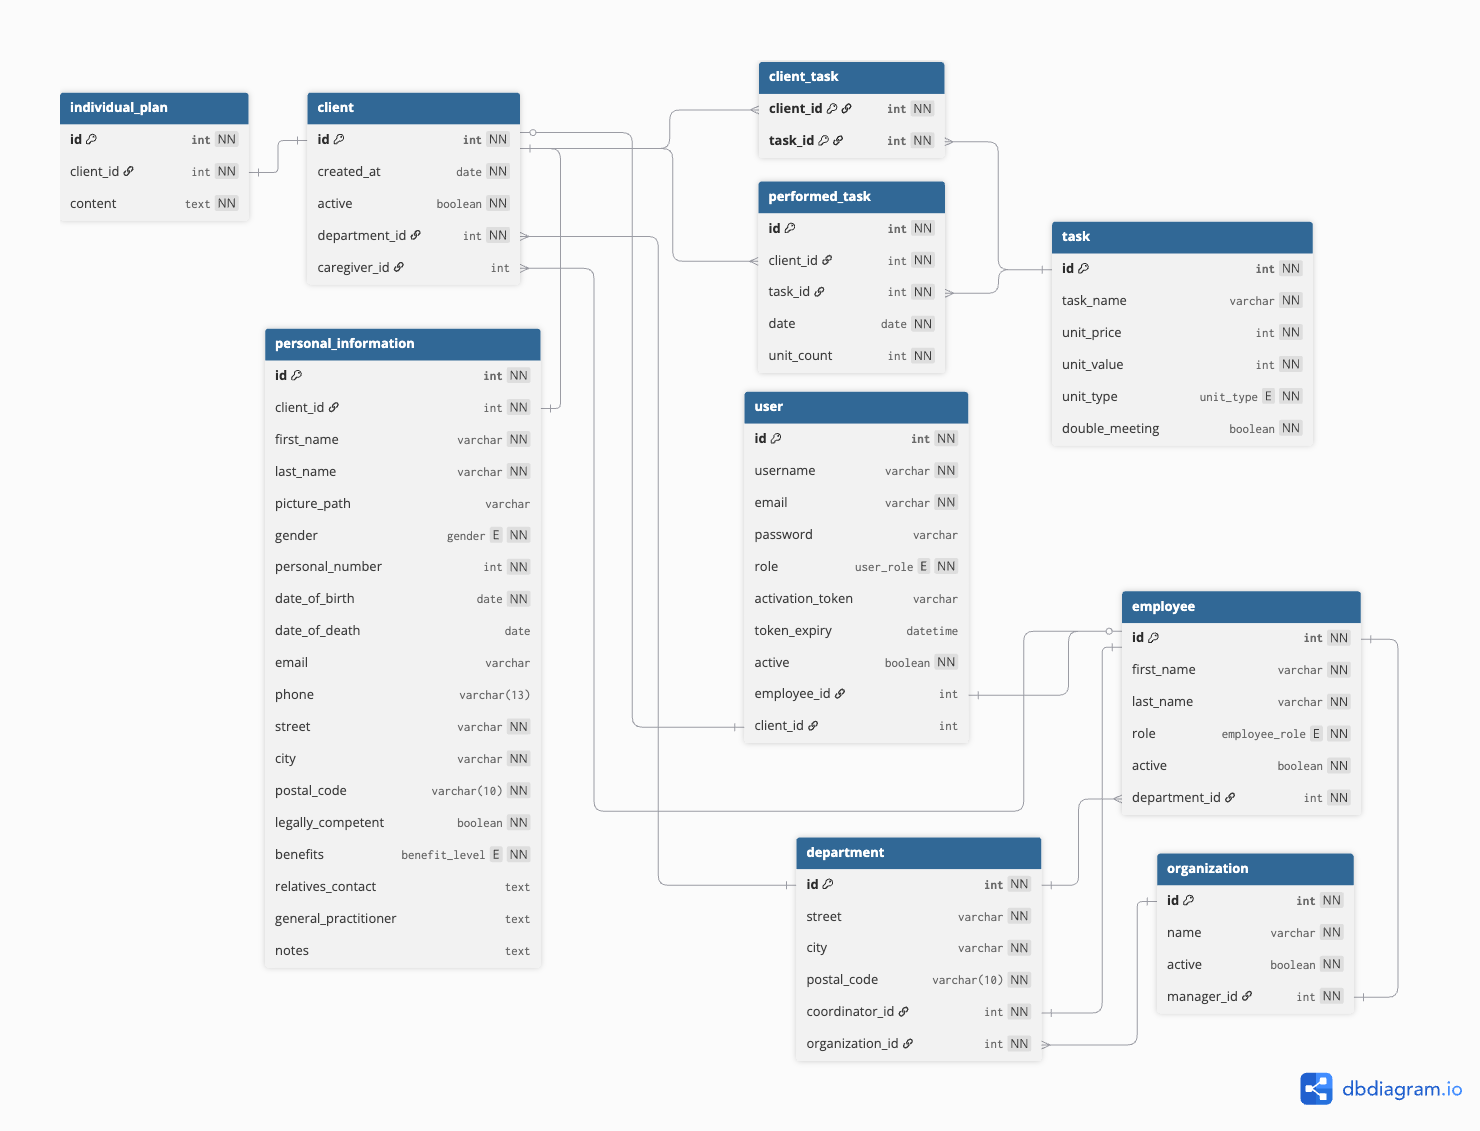
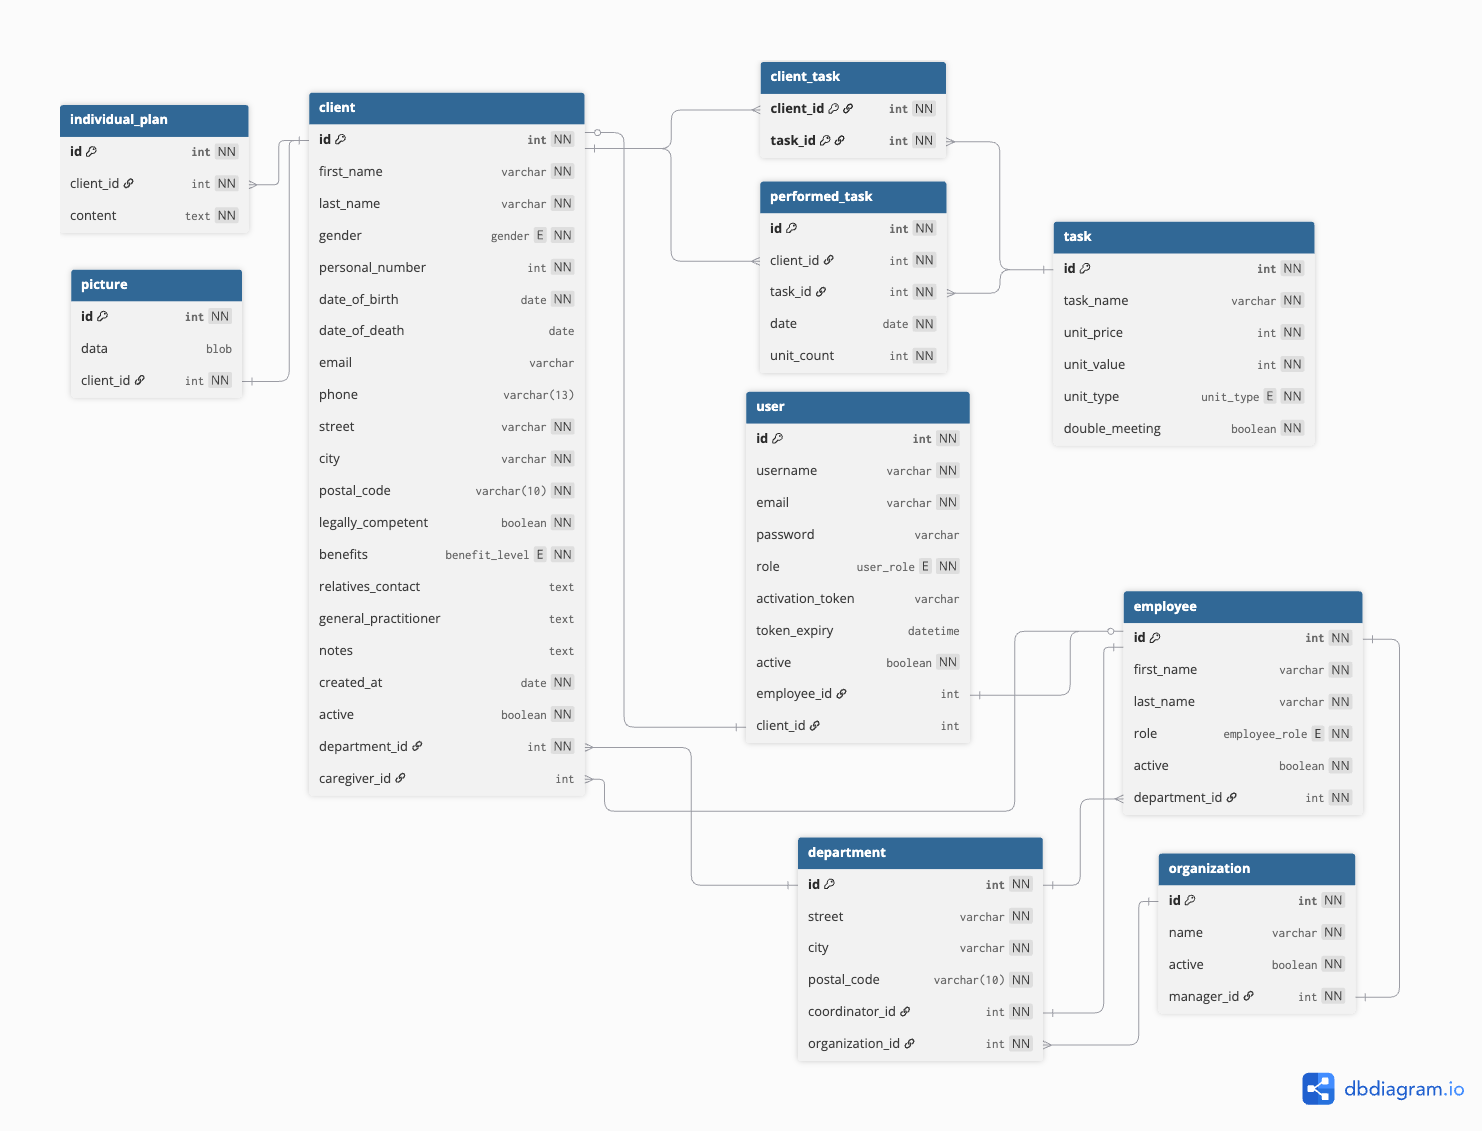
docs: updated ERA model; feat: added new entity classes

diff --git a/backend/src/main/java/cz/zcu/kiv/caretracker/entity/PersonalInformation.java b/backend/src/main/java/cz/zcu/kiv/caretracker/entity/PersonalInformation.java
@@ -1,0 +1,19 @@
+package cz.zcu.kiv.caretracker.entity;
+
+import jakarta.persistence.*;
+
+public class PersonalInformation {
+    @Id
+    @GeneratedValue(strategy = GenerationType.IDENTITY)
+    private Long id;
+
+    @OneToOne
+    @JoinColumn(name = "client_id")
+    private Client client;
+
+    @Column(name = "first_name", nullable = false)
+    private String firstName;
+    @Column(name = "last_name", nullable = false)
+    private String lastName;
+    
+}

diff --git a/backend/src/main/java/cz/zcu/kiv/caretracker/entity/IndividualPlan.java b/backend/src/main/java/cz/zcu/kiv/caretracker/entity/IndividualPlan.java
@@ -1,0 +1,18 @@
+package cz.zcu.kiv.caretracker.entity;
+
+import jakarta.persistence.*;
+
+@Entity
+public class IndividualPlan {
+    @Id
+    @GeneratedValue(strategy = GenerationType.IDENTITY)
+    private Long id;
+
+    @OneToOne
+    @JoinColumn(name = "client_id")
+    private Client client;
+
+    @Lob
+    @Column(columnDefinition = "TEXT")
+    private String content;
+}
